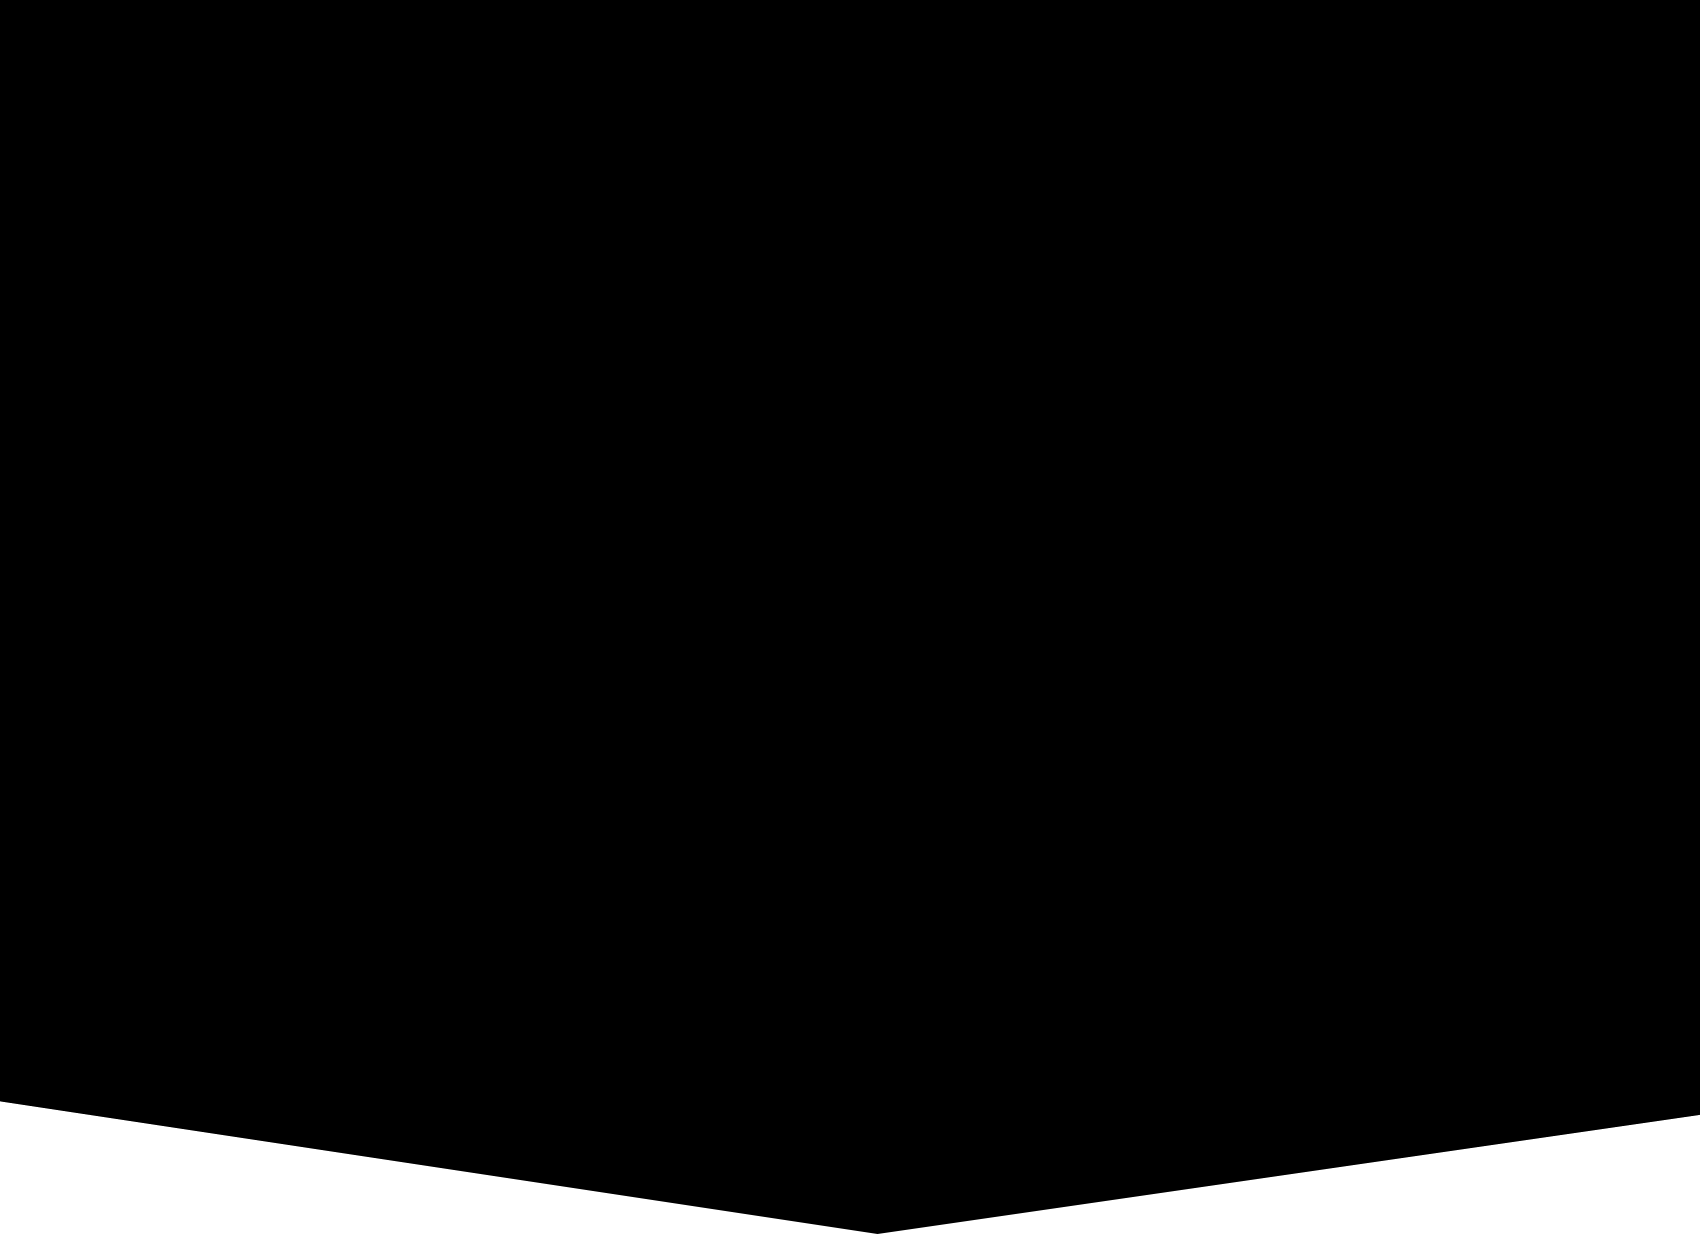
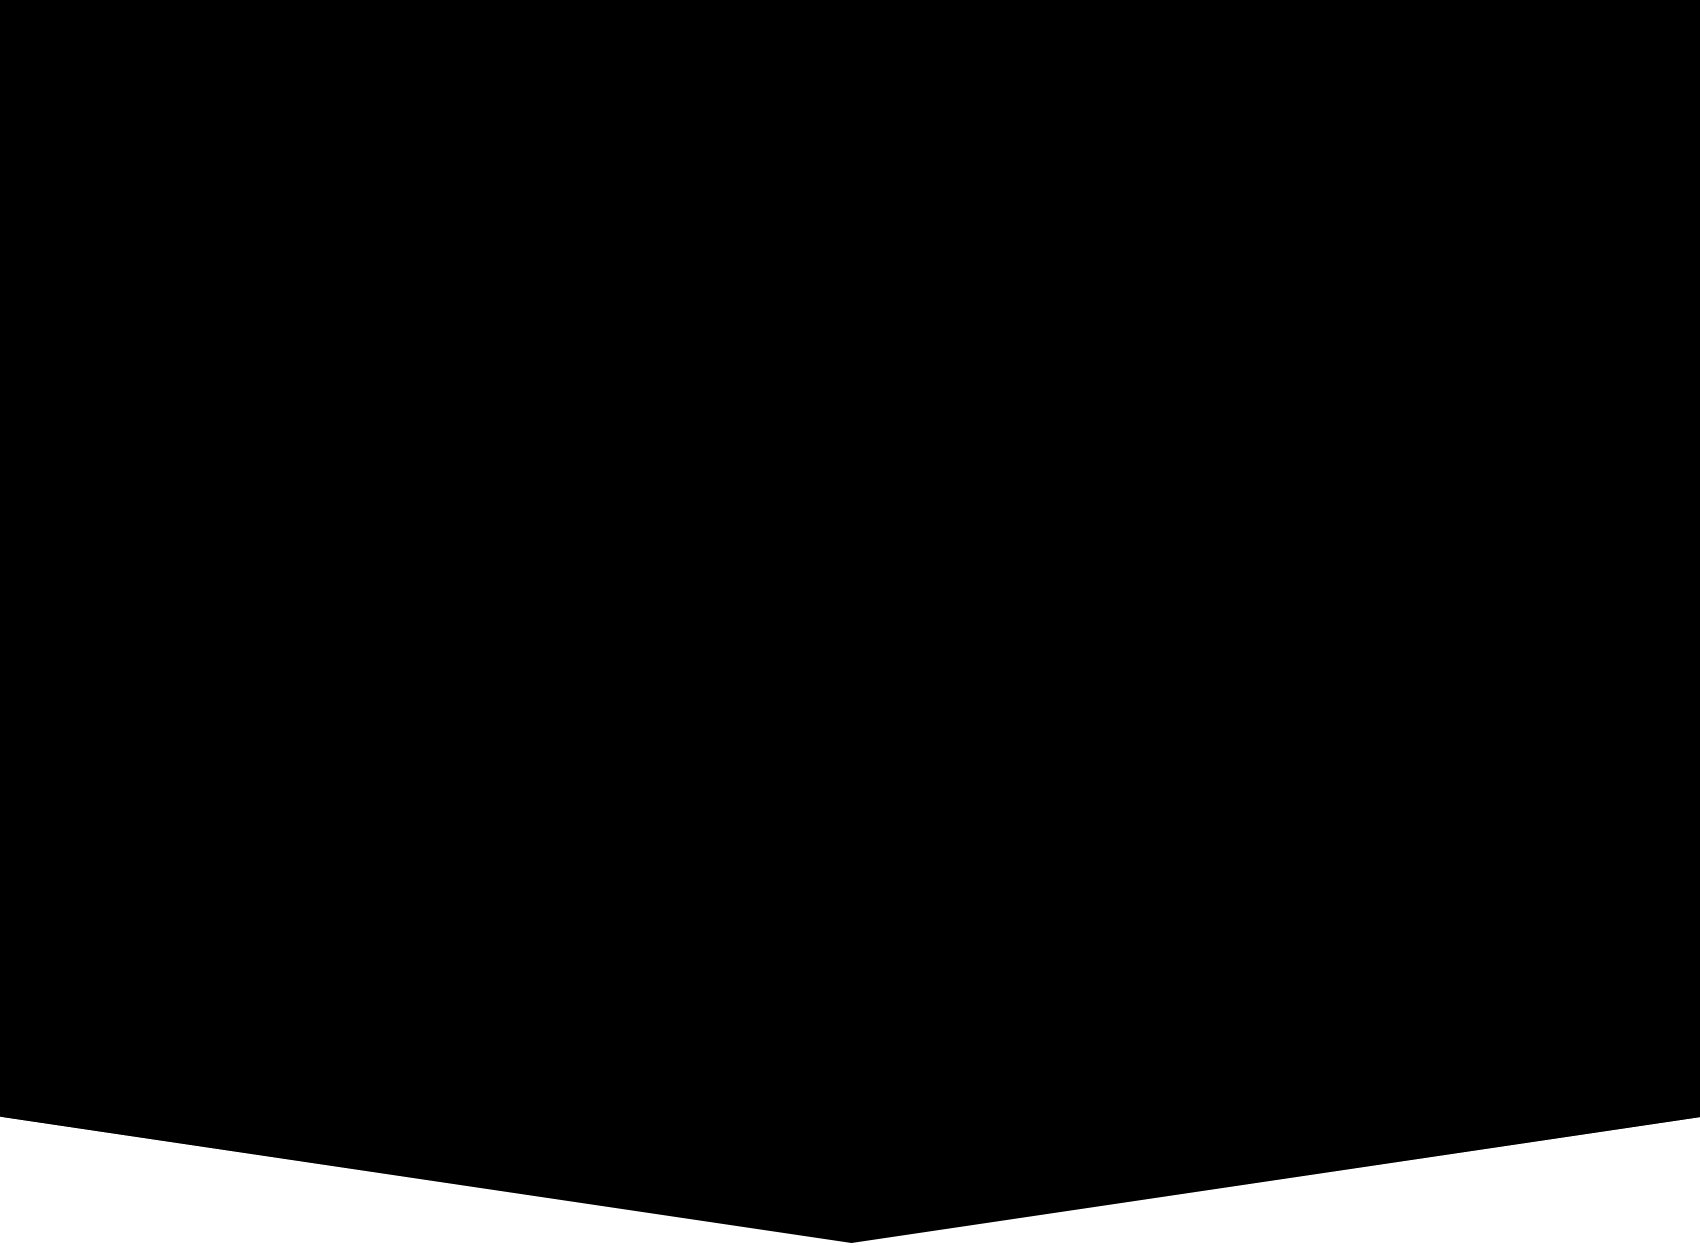
Ajustes para pantallas Xl

diff --git a/web/src/index.html b/web/src/index.html
@@ -12,7 +12,7 @@
   <title>Biko</title>
 </head>
 <body>
-
+<div class="container-content">
   <header>
     <nav class="navbar navbar-light">
       <a class="navbar-brand" href="#">
@@ -76,7 +76,7 @@
               </div>
             </div>
 
-            <div class="col-12 col-md-7 offset-md-1 tmp order-1 order-md-2">
+            <div class="col-12 col-md-6 offset-md-1 tmp order-1 order-md-2">
               <img class="img-fluid" src="/images/puerta-svg.svg">
             </div>
 
@@ -120,7 +120,7 @@
 
 
     </main>
-    <footer class="mb-3 footer-wrap">
+    <footer class="mb-3 pb-3 footer-wrap">
       <div class="container-fluid">
         <div class="row">
 
@@ -137,6 +137,7 @@
         </div>
       </div>
     </footer>
+    </div>
     <script src="js/jquery.min.js"></script>
     <script src="js/jquery.scrollTo.min.js"></script>
     <script src="js/jquery.waypoints.js"></script>

diff --git a/web/src/css/style.css b/web/src/css/style.css
@@ -6649,9 +6649,14 @@ p {
     margin: 0 0 spacing(-1); }
 
 body {
-  color: #000;
+  background-color: #E8E8E8;
   font-family: "Open Sans Condensed", sans-serif;
   font-size: 20px; }
+
+.container-content {
+  max-width: 1700px !important;
+  margin: 0 auto;
+  background-color: white; }
 
 .u-white {
   color: #fff; }
@@ -6775,10 +6780,10 @@ button:focus {
   background-position: center bottom;
   background-repeat: no-repeat;
   background-size: cover;
-  padding: 0 0 100px; }
+  padding: 0 0 110px; }
   @media (max-width: 991.98px) {
     .primary-wrapper {
-      padding: 0 0 40px; } }
+      padding: 0 0 50px; } }
 
 .sub--info__title {
   font-family: "Source Sans Pro", sans-serif;

diff --git a/web/src/scss/03_elements/_body.scss b/web/src/scss/03_elements/_body.scss
@@ -1,5 +1,11 @@
 body {
-  color      : $black;
-  font-family: $font-open;
-  font-size  : 20px;
+  background-color: #E8E8E8;
+  font-family     : $font-open;
+  font-size       : 20px;
+}
+
+.container-content {
+  max-width       : 1700px !important;
+  margin          : 0 auto;
+  background-color: white;
 }

diff --git a/web/src/scss/04_components/_principal.scss b/web/src/scss/04_components/_principal.scss
@@ -94,9 +94,9 @@ button:focus {
   background-position: center bottom;
   background-repeat  : no-repeat;
   background-size    : cover;
-  padding            : 0 0 100px;
+  padding            : 0 0 110px;
   @include media-breakpoint-down(md) {
-    padding: 0 0 40px;
+    padding: 0 0 50px;
   }
 }
 
